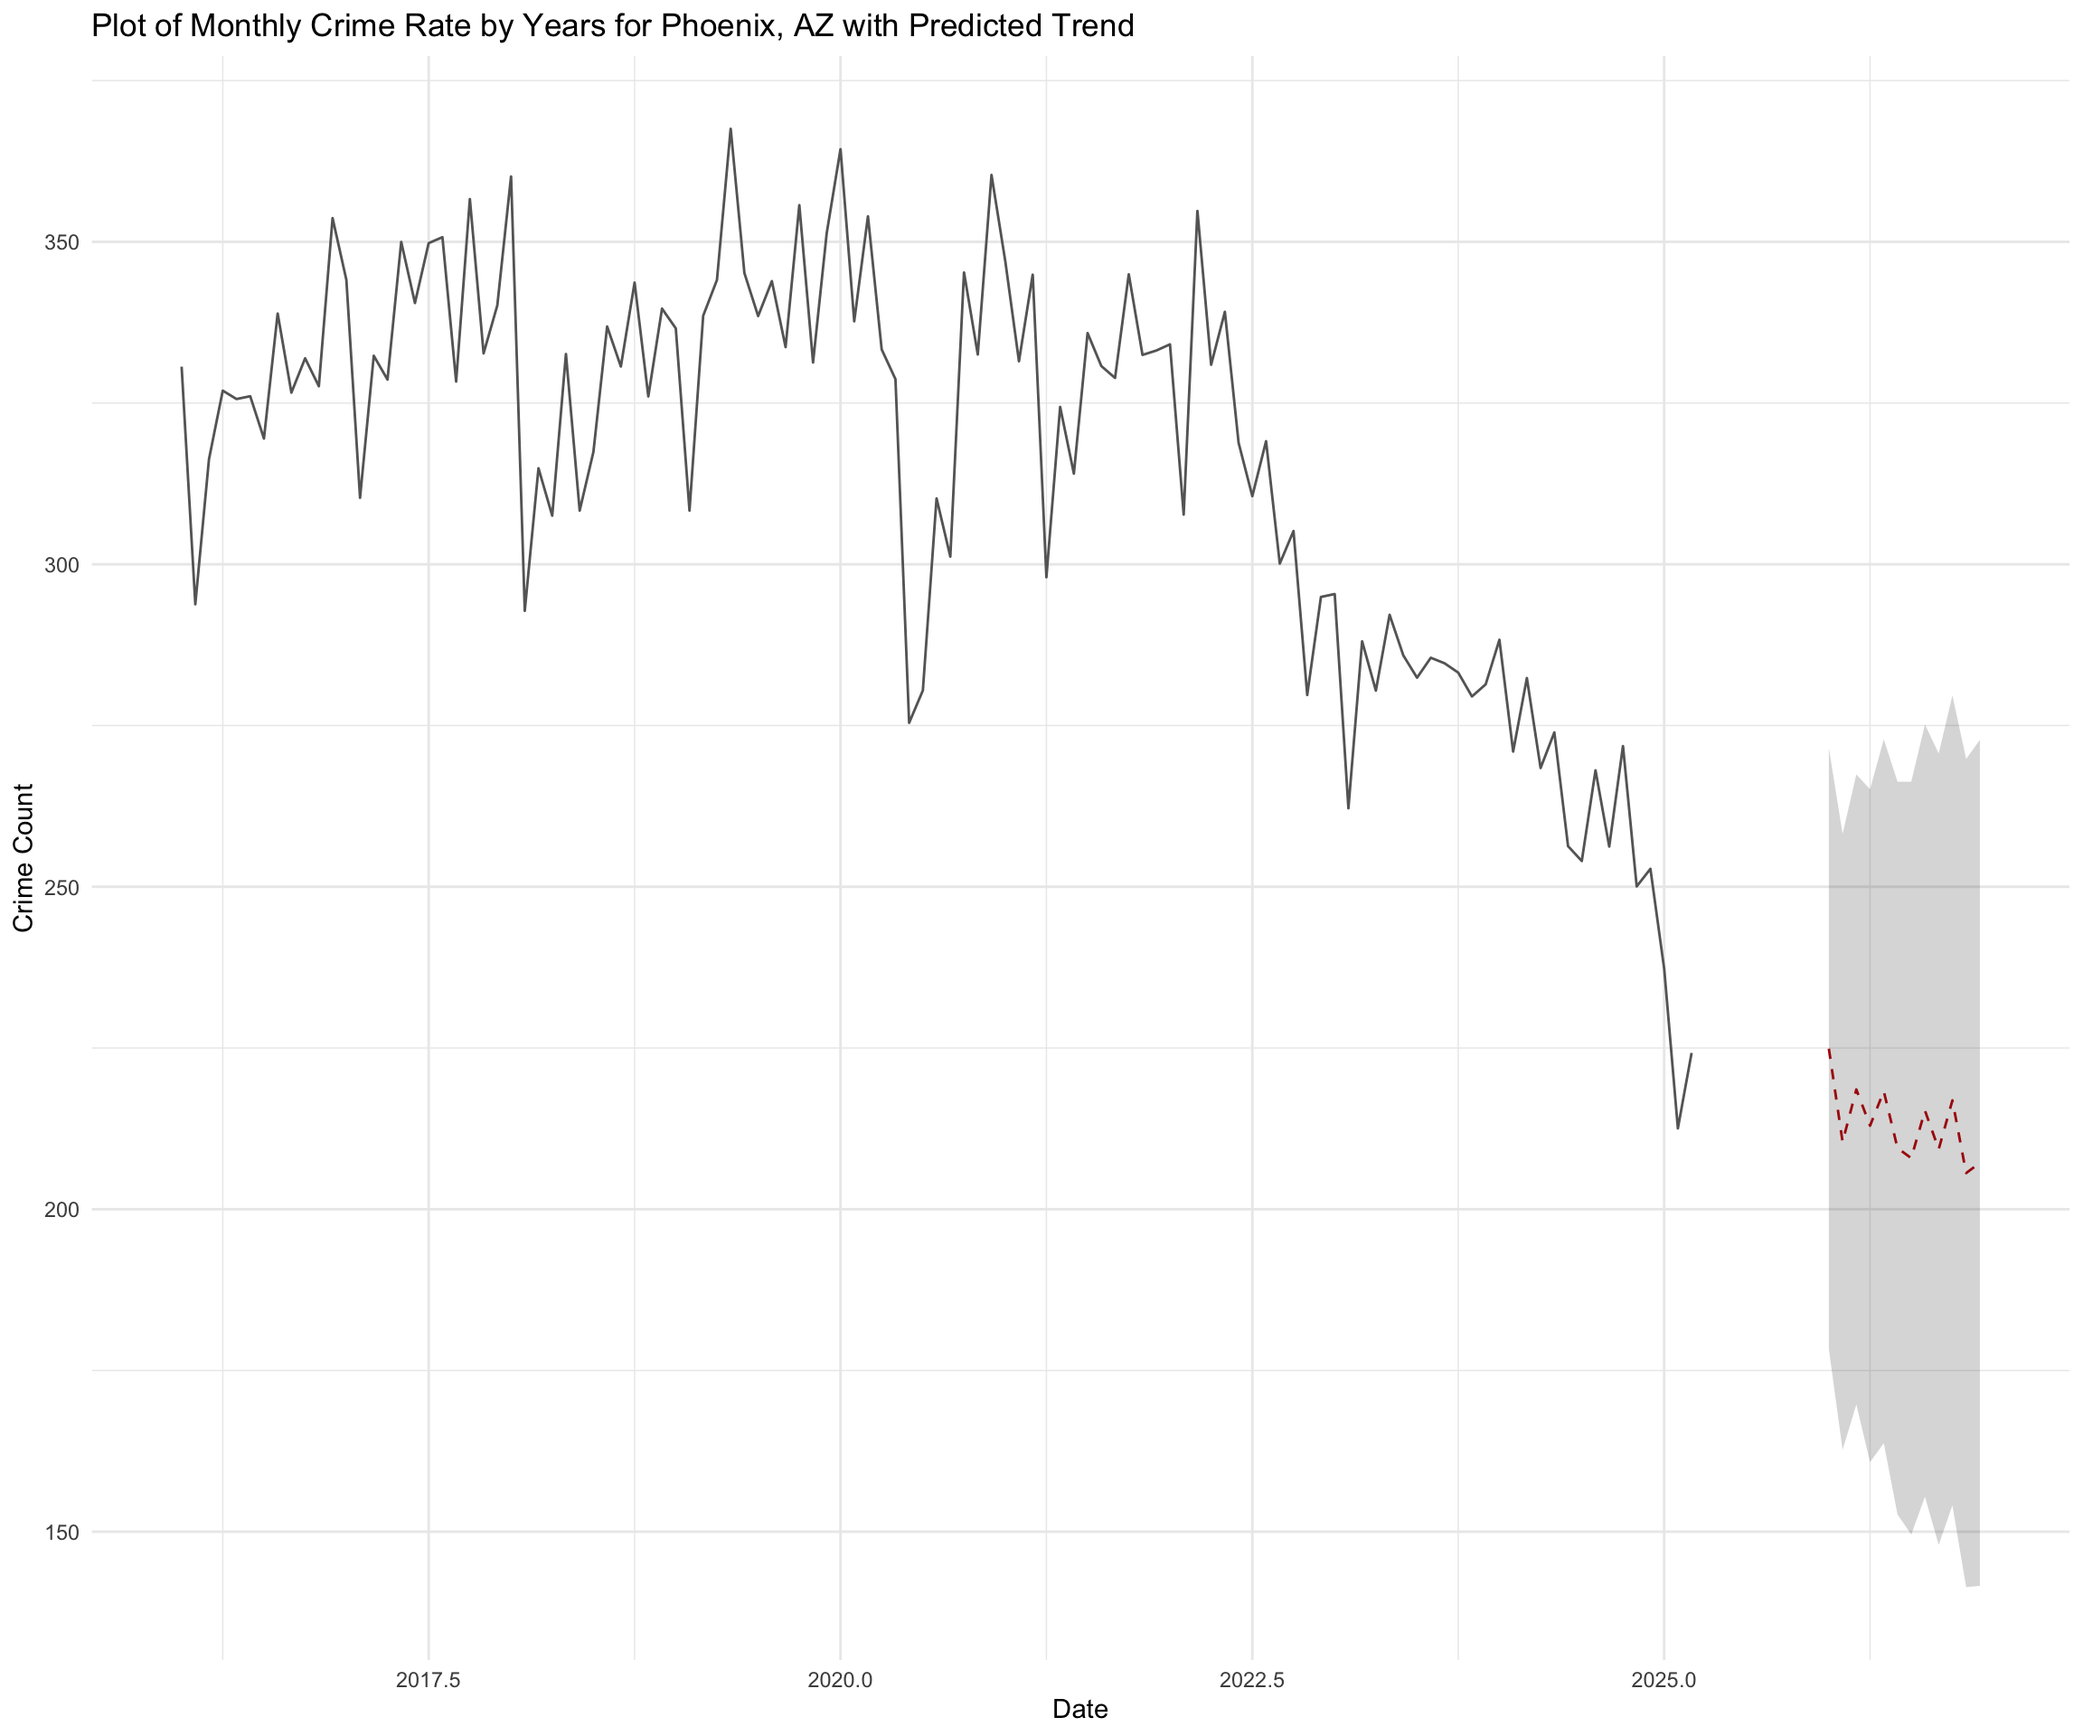
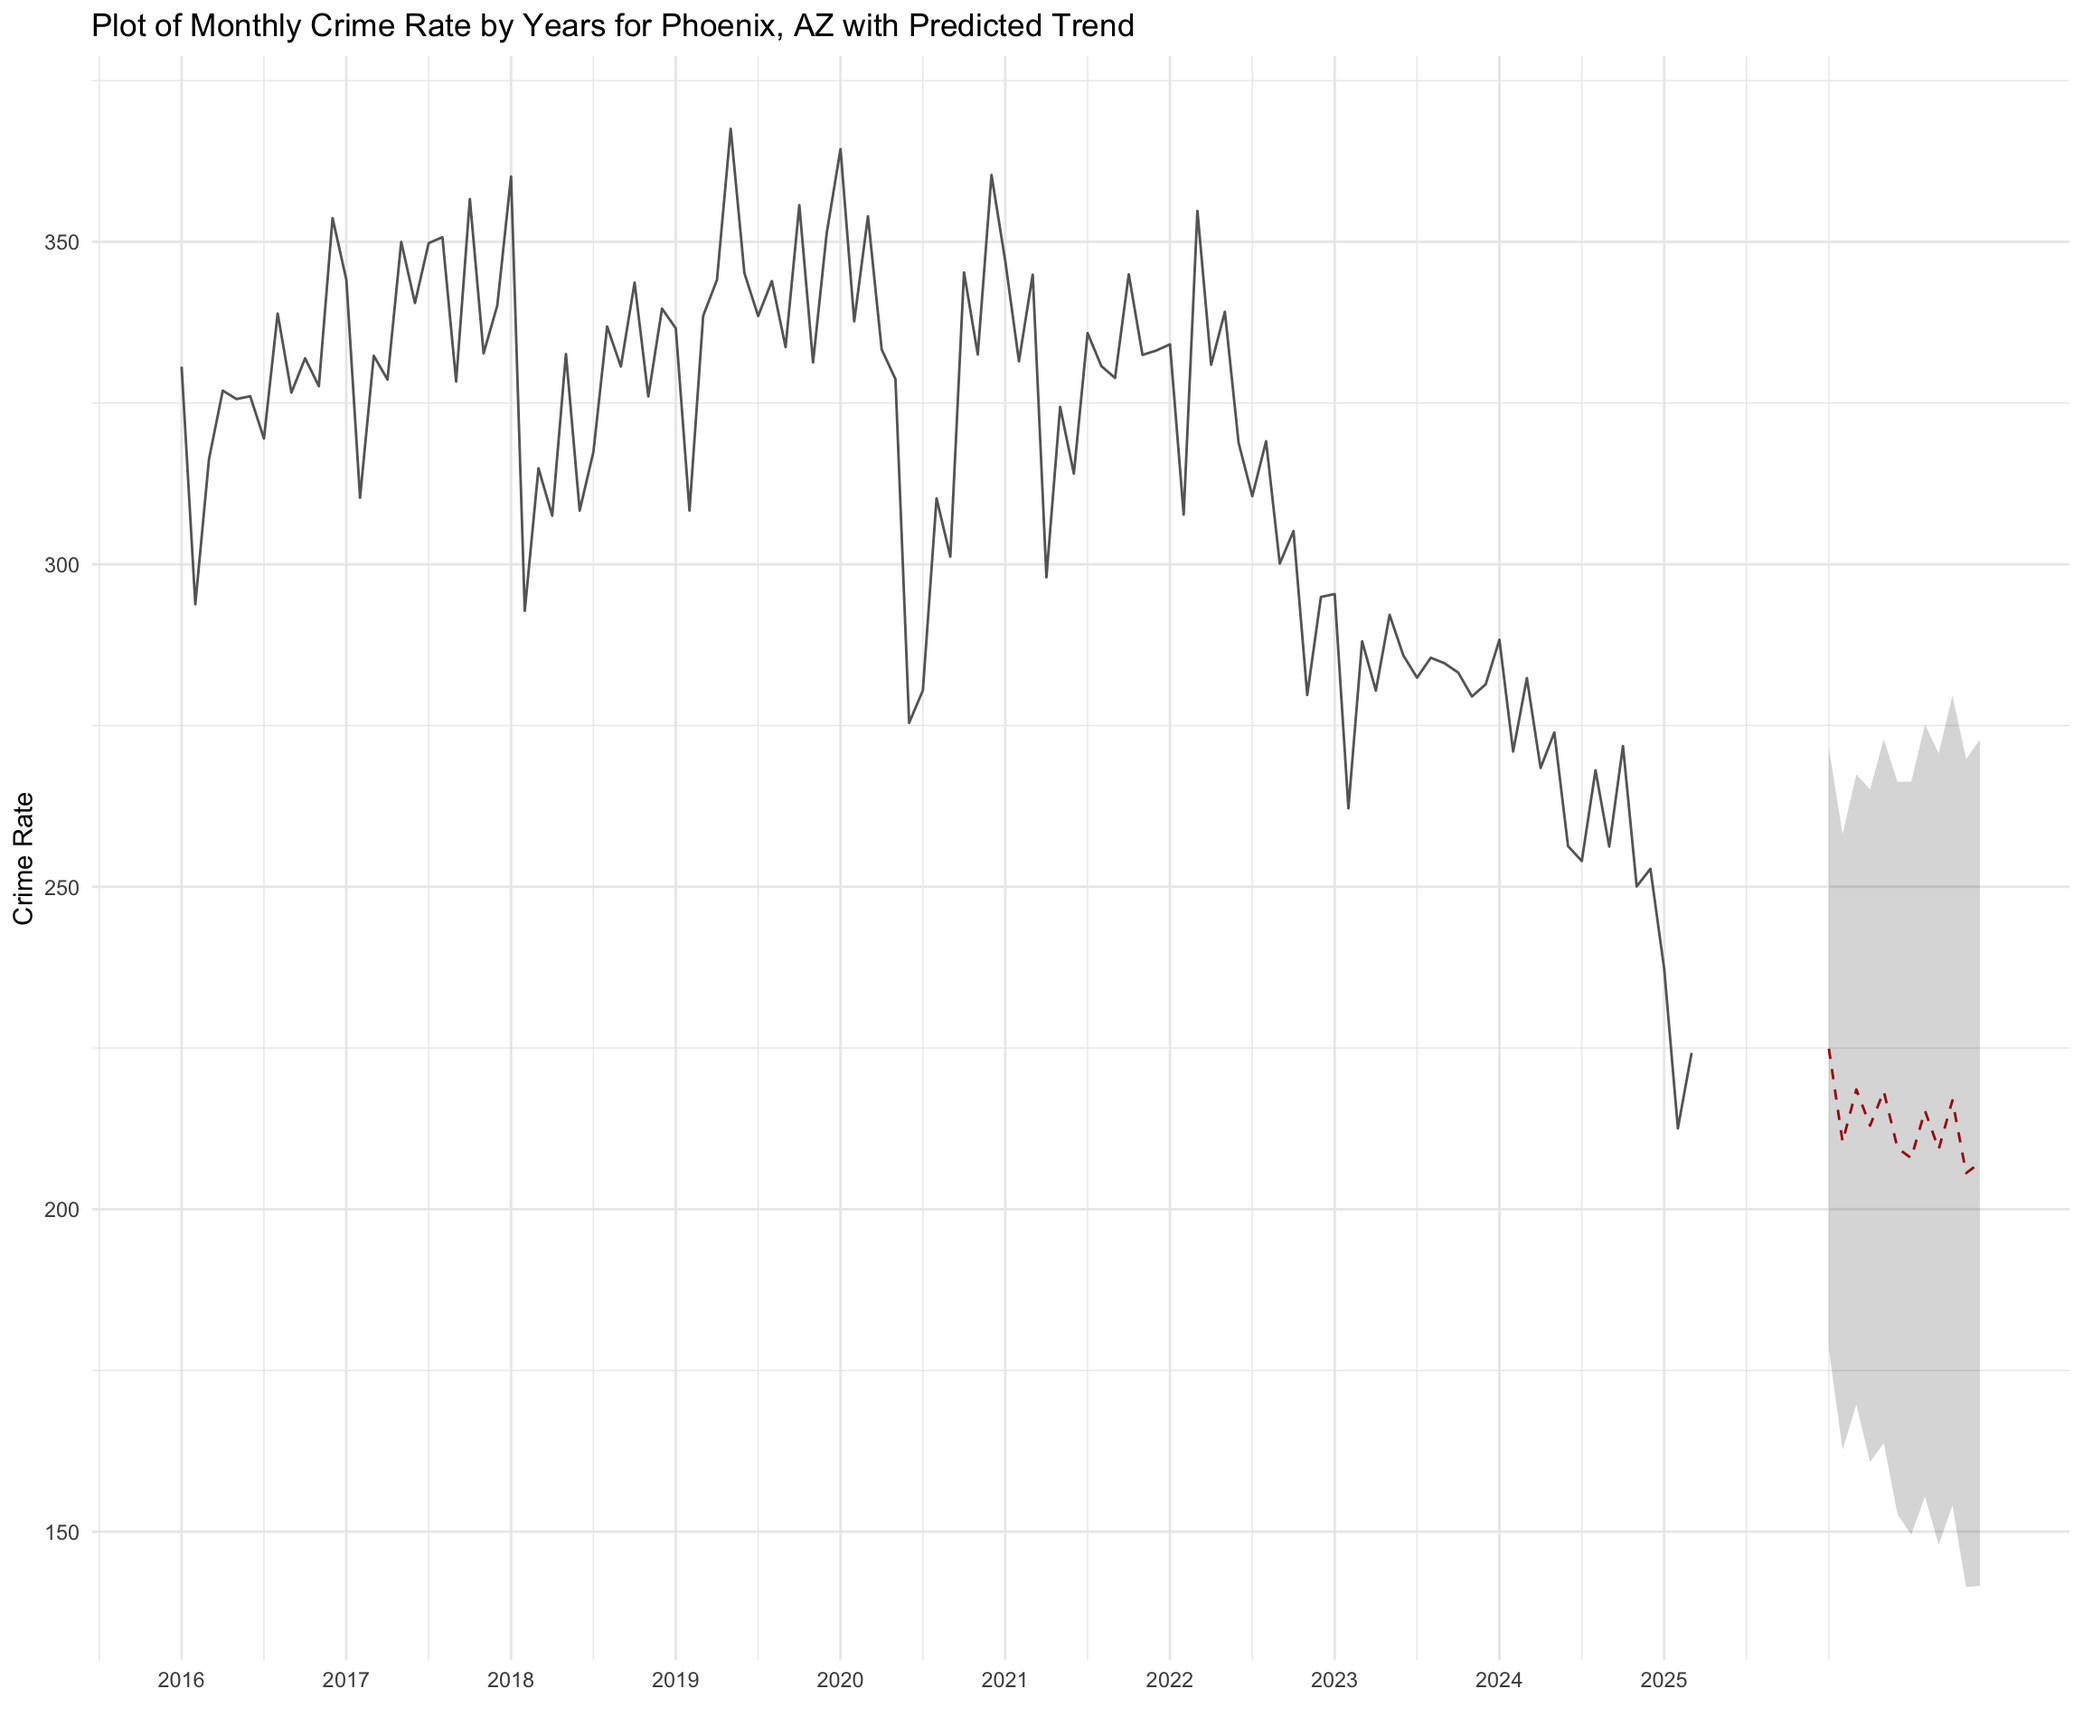
revisions

Changed region(s): [[0.0, 0.4688, 0.0312, 0.5312], [0.7812, 0.9375, 0.8125, 0.9688], [0.5, 0.9688, 0.5312, 1.0]]

diff --git a/docs/crime-trends.html b/docs/crime-trends.html
@@ -471,8 +471,12 @@ ggplot() +
   geom_line( data = forecast_data, aes(x = ds, y = yhat), color = &quot;#c41104&quot;, linetype = &quot;dashed&quot;) +  # Forecasted data
   geom_ribbon(data = forecast_data, aes(x = ds, ymin = lower, ymax = upper), alpha = 0.2) +  # Confidence interval
   labs( title = &quot;Plot of Monthly Crime Rate by Years for Phoenix, AZ with Predicted Trend&quot;,
-       x = &quot;Date&quot;,
-       y = &quot;Crime Count&quot; ) +
+       x = &quot;&quot;,
+       y = &quot;Crime Rate&quot; ) +
+  scale_x_continuous(
+    breaks = seq( min( crimeRatesYear$year ), max( crimeRatesYear$year ), by = 1 ),
+    labels = as.character
+  ) +
   theme_minimal()</code></pre>
 <p><img src="crime-trends_files/figure-html/unnamed-chunk-5-1.png" width="1152" /></p>
 <p><br></p>
